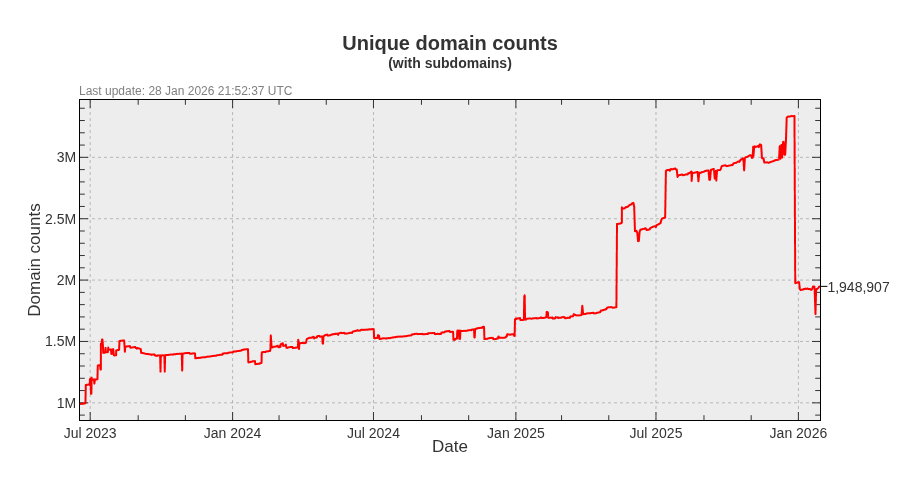
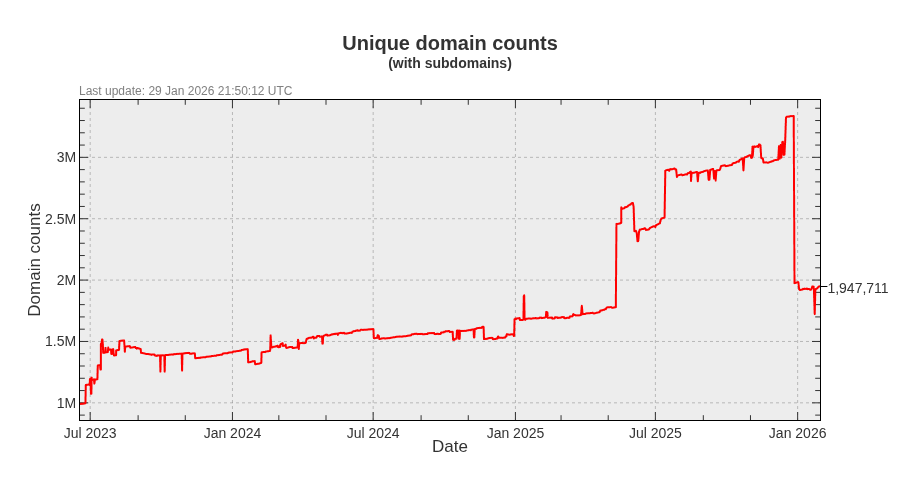
Update pages

diff --git a/README.md b/README.md
@@ -3,22 +3,22 @@ A blocklist file for blocking ads, trackers and malware domains.
 
[1 lines of base64/hex data omitted]
 
-- Unique domains: 1,948,907
-- Without subdomains: 1,302,828
-- Last update: 28 Jan 2026 21:52:37 UTC
-- Version: 2026.01.28.01
+- Unique domains: 1,947,711
+- Without subdomains: 1,300,981
+- Last update: 29 Jan 2026 21:50:12 UTC
+- Version: 2026.01.29.01
 
 
 ### Downloads:
 
 | Format             | Domain count      | Download Link |
 |:------------------ | -----------------:|:-------------:|
-| *Adblock Plus*     | 1,302,828 | [Download](https://dl.cenk.app/bad-hosts/bad-hosts-abp) |
-| *Wildcard domains* | 1,302,828 | [Download](https://dl.cenk.app/bad-hosts/bad-hosts-wildcard) |
-| *dnsmasq*          | 1,302,828 | [Download](https://dl.cenk.app/bad-hosts/bad-hosts-dnsmasq) |
-| *hosts*            | 1,948,907 | [Download](https://dl.cenk.app/bad-hosts/hosts) |
-| *hosts (ipv6)*     | 1,948,907 | [Download](https://dl.cenk.app/bad-hosts/hosts-ipv6) |
-| *Plain domains*    | 1,948,907 | [Download](https://dl.cenk.app/bad-hosts/bad-hosts-domains) |
+| *Adblock Plus*     | 1,300,981 | [Download](https://dl.cenk.app/bad-hosts/bad-hosts-abp) |
+| *Wildcard domains* | 1,300,981 | [Download](https://dl.cenk.app/bad-hosts/bad-hosts-wildcard) |
+| *dnsmasq*          | 1,300,981 | [Download](https://dl.cenk.app/bad-hosts/bad-hosts-dnsmasq) |
+| *hosts*            | 1,947,711 | [Download](https://dl.cenk.app/bad-hosts/hosts) |
+| *hosts (ipv6)*     | 1,947,711 | [Download](https://dl.cenk.app/bad-hosts/hosts-ipv6) |
+| *Plain domains*    | 1,947,711 | [Download](https://dl.cenk.app/bad-hosts/bad-hosts-domains) |
 
 ### Domain count history
 #### With subdomains
